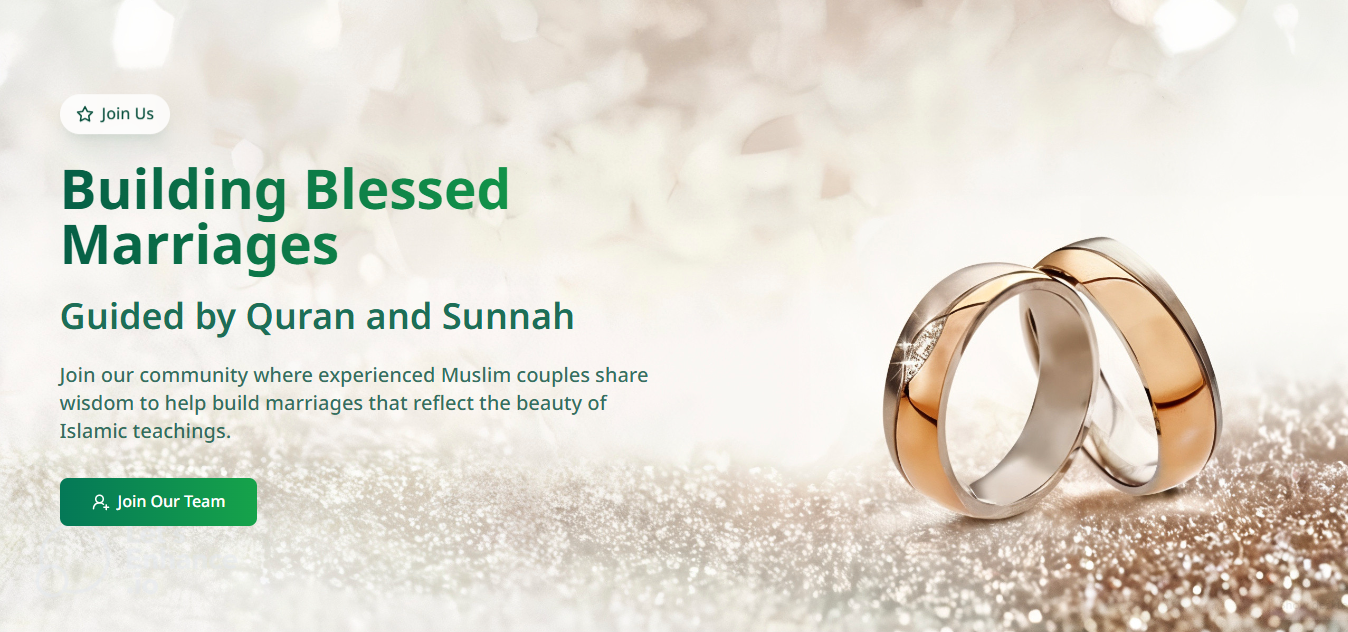
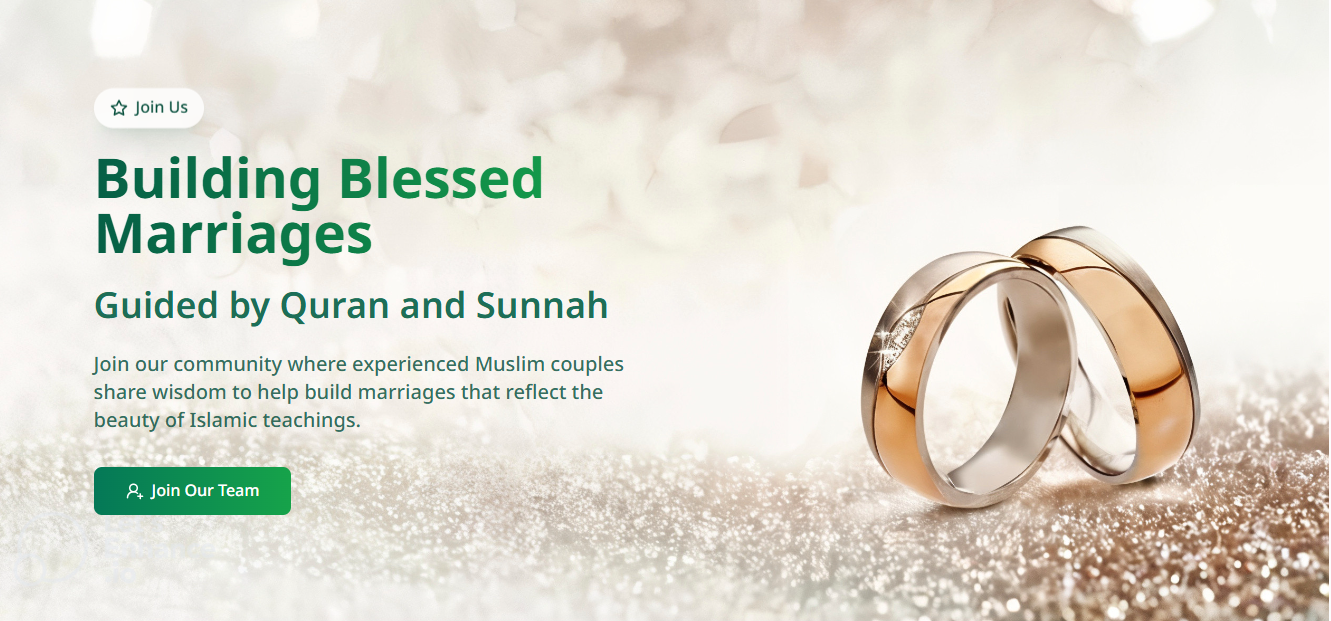
Embedded Google Form

diff --git a/src/components/VolunteerHeader.tsx b/src/components/VolunteerHeader.tsx
@@ -7,7 +7,7 @@ const VolunteerHeader = () => {
       className="relative min-h-screen pt-20 mb-10 pb-10 flex items-center overflow-hidden bg-cover bg-right-bottom bg-white/50 lg:bg-transparent bg-blend-overlay"
       style={{ backgroundImage: `url(${rings})` }}
     >
-      <div className="container mx-auto px-4 md:px-6 relative z-20">
+      <div className="container mx-auto px-4 md:px-20 relative z-20">
         <div className="grid md:grid-cols-3 lg:grid-cols-2 gap-12 items-center">
           <div className="text-center md:text-left col-span-2 lg:col-span-1">
             <div className="inline-block mb-6 animate-float">
